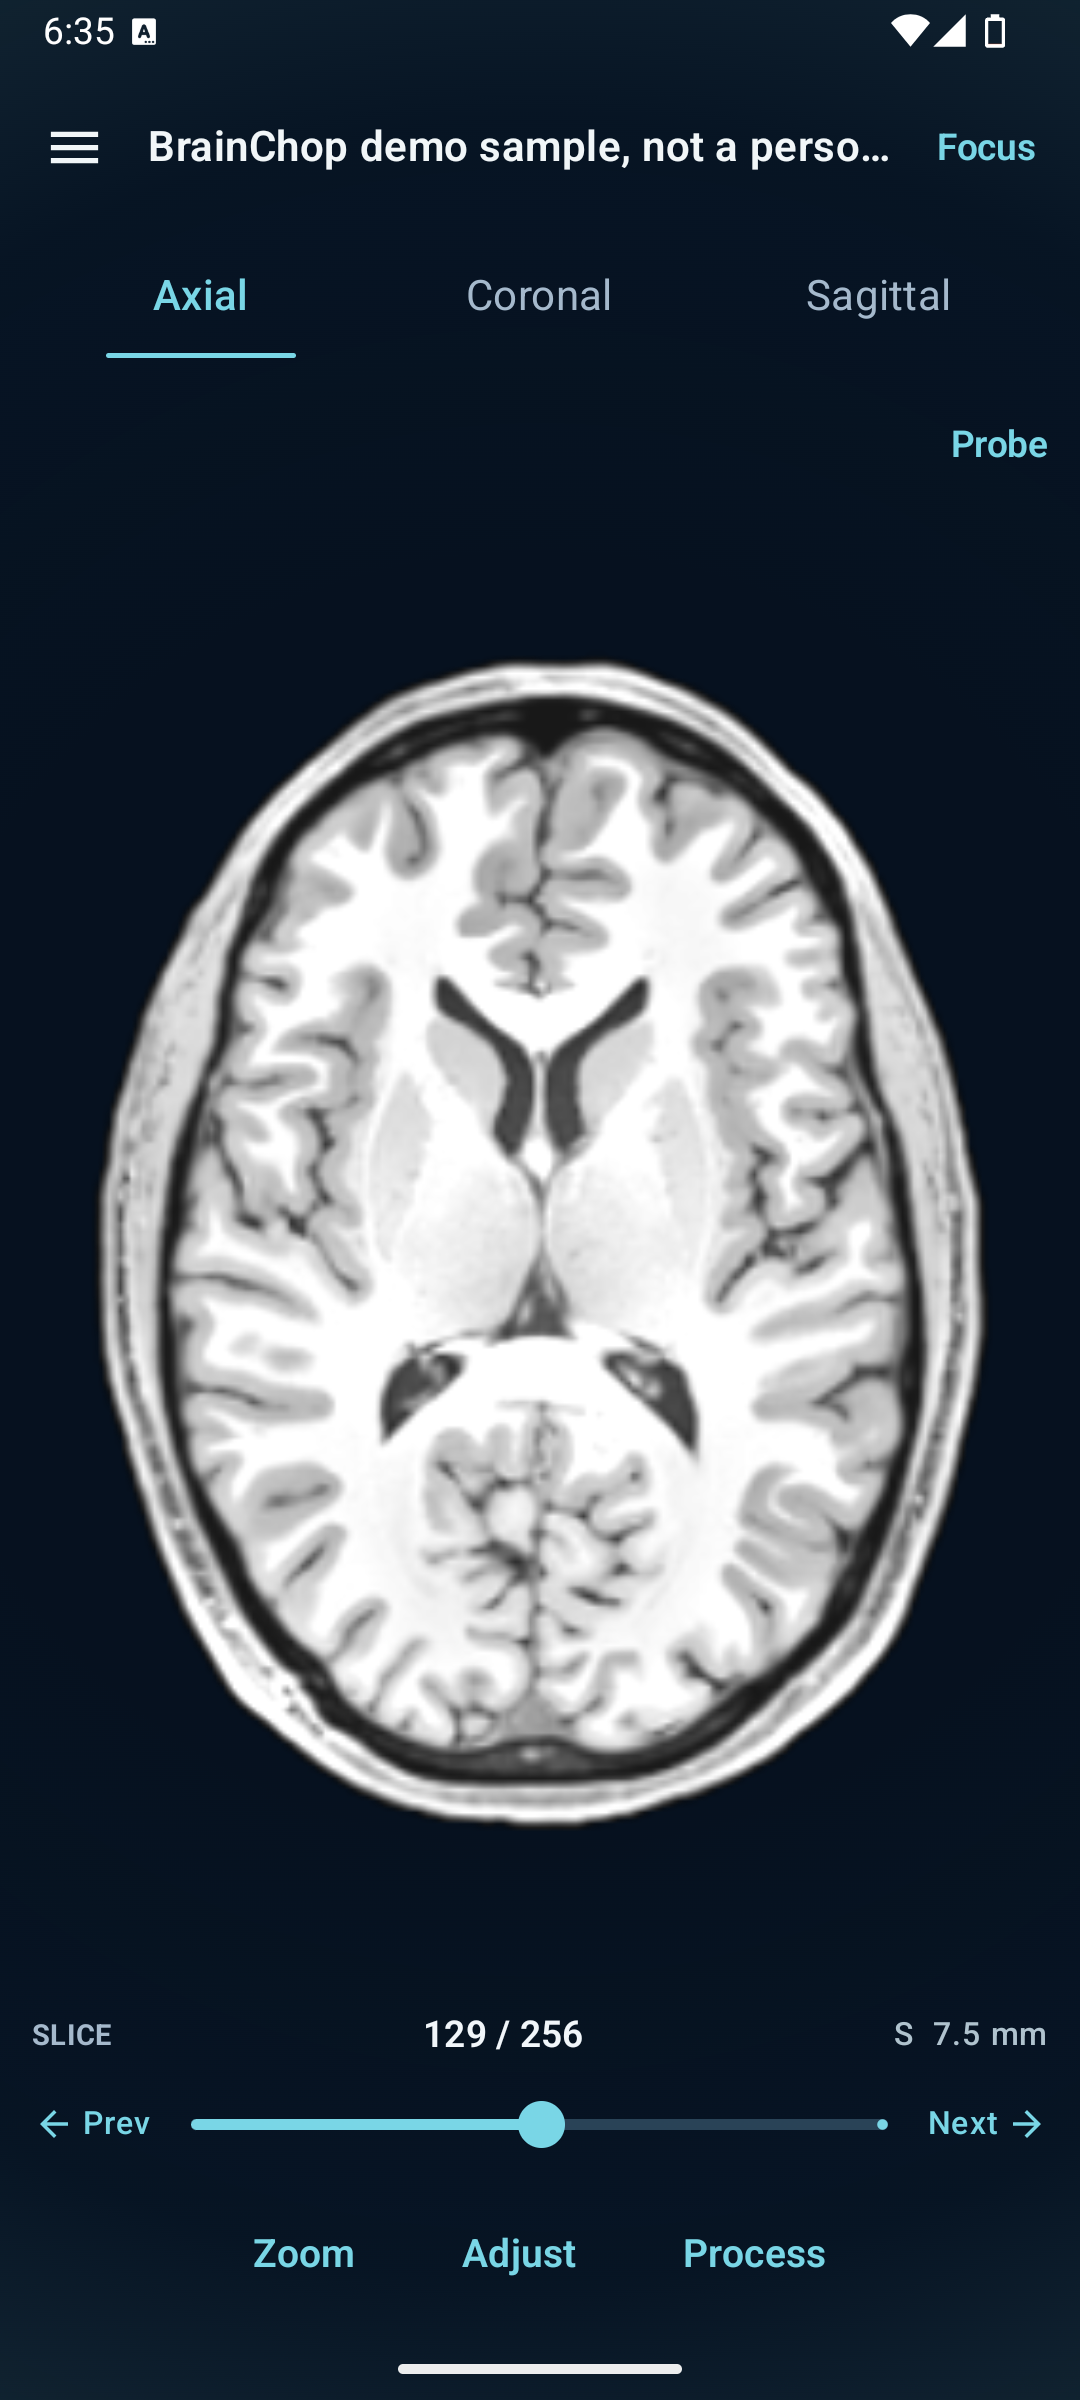
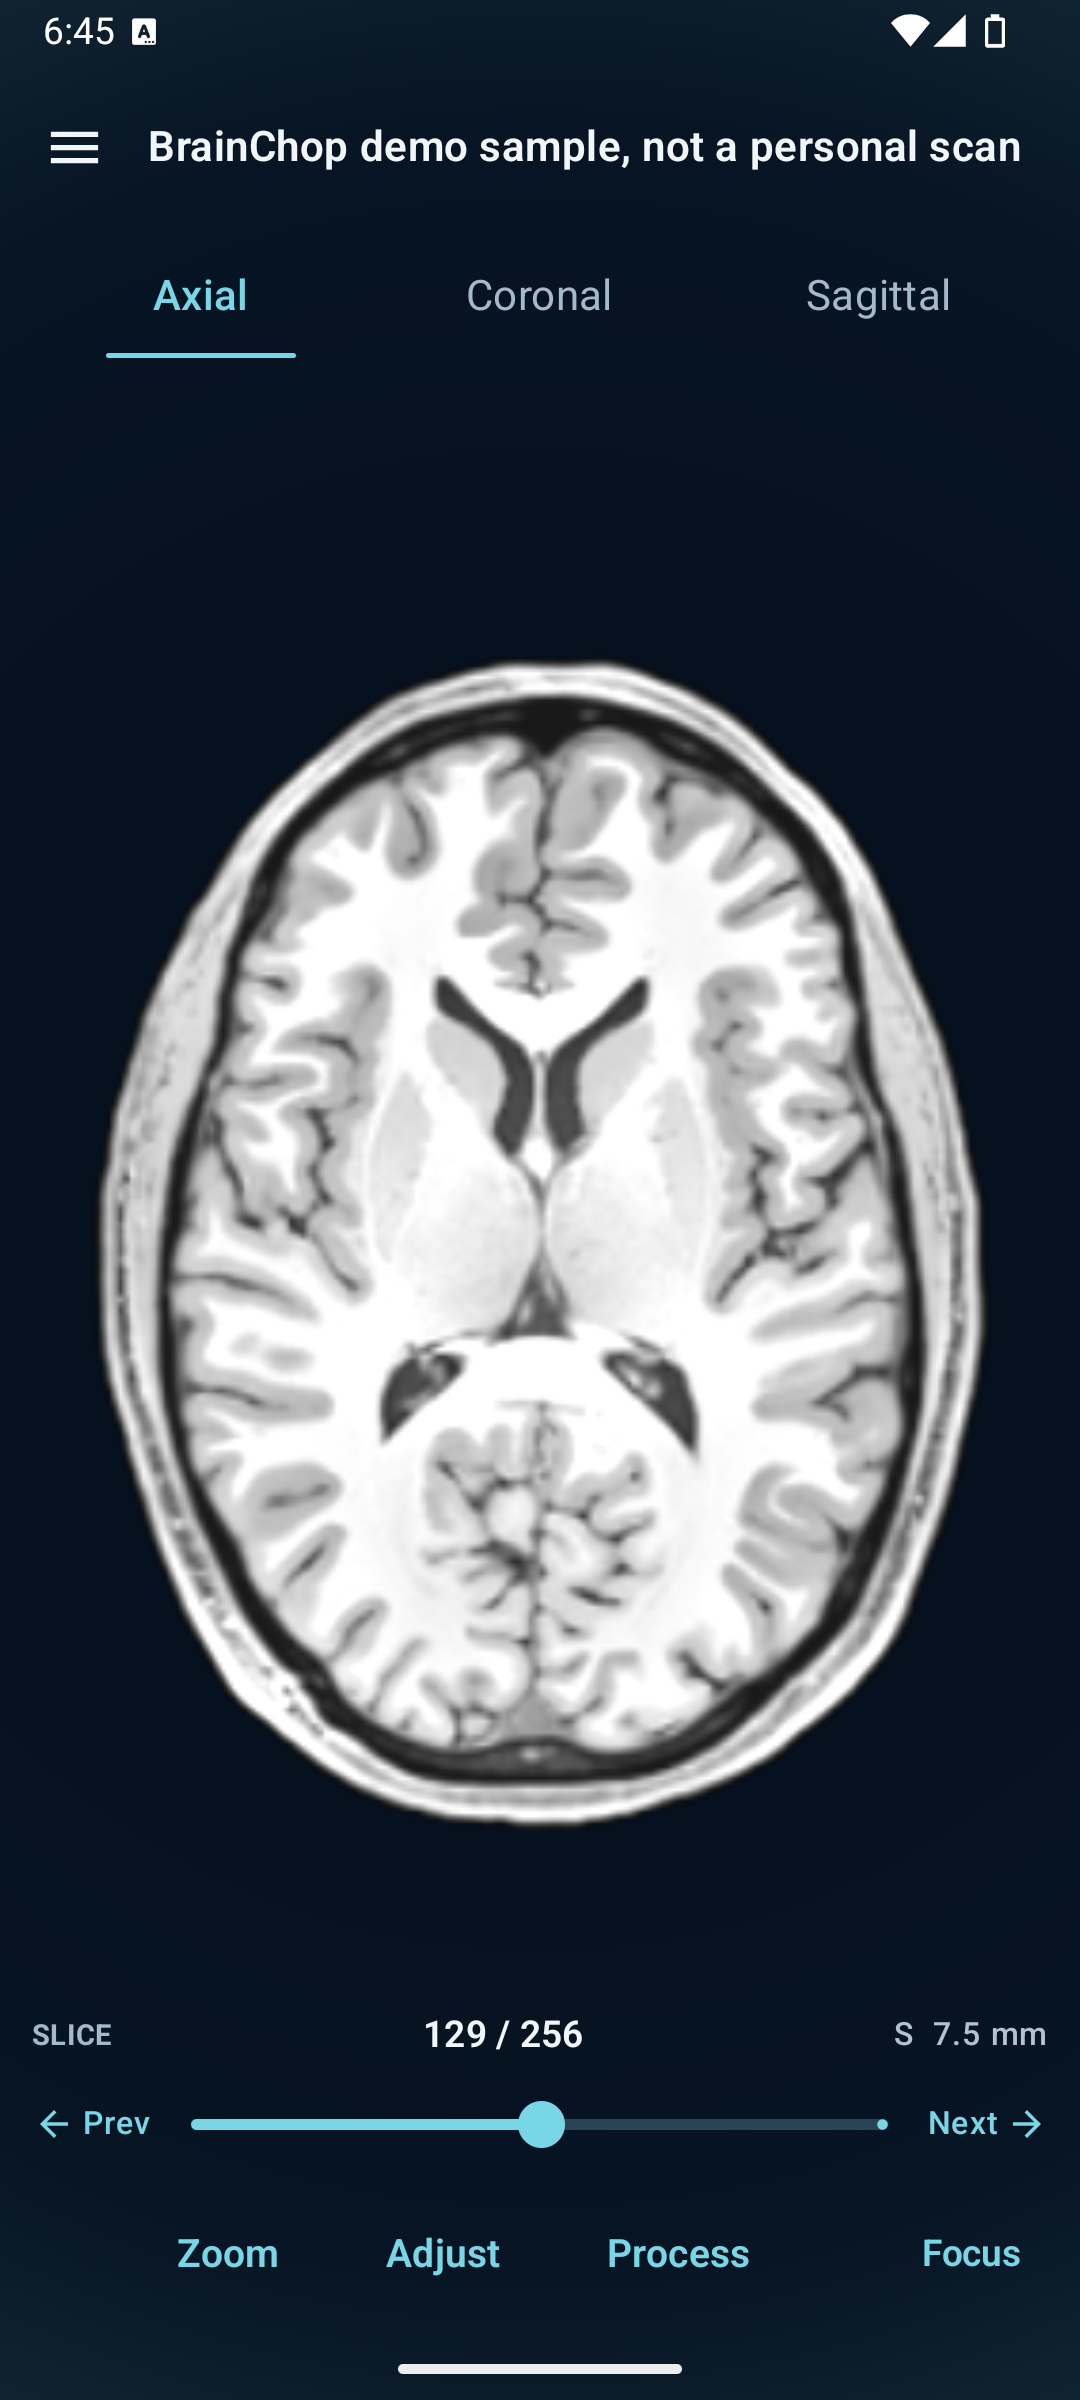
Move probe control into display adjustments

diff --git a/app/src/main/java/com/marcusfunt/neuroview/ui/screens/ViewerScreen.kt b/app/src/main/java/com/marcusfunt/neuroview/ui/screens/ViewerScreen.kt
@@ -58,6 +58,7 @@ import androidx.compose.material3.NavigationDrawerItem
 import androidx.compose.material3.Scaffold
 import androidx.compose.material3.Slider
 import androidx.compose.material3.Surface
+import androidx.compose.material3.Switch
 import androidx.compose.material3.Text
 import androidx.compose.material3.TextButton
 import androidx.compose.material3.TopAppBar
@@ -295,11 +296,6 @@ fun ViewerScreen(
                                 Icon(Icons.Default.Menu, contentDescription = "Open navigation menu")
                             }
                         },
-                        actions = {
-                            TextButton(onClick = { focusMode = !focusMode }) {
-                                Text(if (focusMode) "Controls" else "Focus", color = NeuroChrome.accent)
-                            }
-                        },
                         colors = TopAppBarDefaults.topAppBarColors(
                             containerColor = Color.Transparent,
                         ),
@@ -322,6 +318,7 @@ fun ViewerScreen(
                         is VolumeLoadState.Ready -> MriContent(
                             modifier = Modifier.fillMaxSize(),
                             focusMode = focusMode,
+                            onFocusToggle = { focusMode = !focusMode },
                             showOrientationMarkers = showOrientationMarkers,
                             volume = volumeState.volume,
                             plane = plane,
@@ -342,12 +339,6 @@ fun ViewerScreen(
                         )
                     }
 
-                    if (focusMode) {
-                        TextButton(
-                            onClick = { focusMode = false },
-                            modifier = Modifier.align(Alignment.TopEnd).padding(8.dp),
-                        ) { Text("Exit focus", color = NeuroChrome.accent) }
-                    }
                 }
             }
         }
@@ -468,6 +459,7 @@ private fun ViewerMessage(title: String, detail: String, onImport: () -> Unit) {
 private fun MriContent(
     modifier: Modifier,
     focusMode: Boolean,
+    onFocusToggle: () -> Unit,
     showOrientationMarkers: Boolean,
     volume: NiftiVolume,
     plane: MriPlane,
@@ -495,7 +487,7 @@ private fun MriContent(
     var bridgeToken by remember { mutableStateOf("") }
     var zoomMode by remember(volume) { mutableStateOf(false) }
     var probeMode by remember(volume) { mutableStateOf(false) }
-    var probeReading by remember(volume, plane) { mutableStateOf<String?>(null) }
+    var probeReading by remember(volume) { mutableStateOf<String?>(null) }
     var scale by remember(volume, plane) { mutableFloatStateOf(DEFAULT_MRI_IMAGE_SCALE) }
     var panOffset by remember(volume, plane) { mutableStateOf(Offset.Zero) }
     var imageViewport by remember { mutableStateOf(IntSize.Zero) }
@@ -570,8 +562,16 @@ private fun MriContent(
                                 )
                                 val imageWidth = image.width * fit
                                 val imageHeight = image.height * fit
-                                val fractionX = (tap.x - (imageViewport.width - imageWidth) / 2f) / imageWidth
-                                val fractionY = (tap.y - (imageViewport.height - imageHeight) / 2f) / imageHeight
+                                val centerX = imageViewport.width / 2f
+                                val centerY = imageViewport.height / 2f
+                                val imageX =
+                                    (tap.x - centerX - panOffset.x) / scale + centerX
+                                val imageY =
+                                    (tap.y - centerY - panOffset.y) / scale + centerY
+                                val fractionX = (imageX - (imageViewport.width - imageWidth) / 2f) /
+                                    imageWidth
+                                val fractionY = (imageY - (imageViewport.height - imageHeight) / 2f) /
+                                    imageHeight
                                 val sampled = MprProbe.sample(
                                     volume, plane, currentSlice,
                                     fractionX.toDouble(), fractionY.toDouble(),
@@ -582,6 +582,7 @@ private fun MriContent(
                                         it.roundToInt().toString()
                                     }} · intensity ${String.format(java.util.Locale.US, "%.2f", sampled.intensity)}"
                                 } else {
+                                    onReferenceWorldChange(null)
                                     probeReading = "No measured voxel at that position."
                                 }
                             }
@@ -754,28 +755,38 @@ private fun MriContent(
                     }
                 }
             }
-            if (!focusMode) {
+            if (focusMode) {
                 TextButton(
-                    onClick = {
-                        probeMode = !probeMode
-                        if (!probeMode) onReferenceWorldChange(null)
-                        zoomMode = false
-                        scale = DEFAULT_MRI_IMAGE_SCALE
-                        panOffset = Offset.Zero
-                    },
-                    modifier = Modifier.align(Alignment.TopEnd),
-                ) { Text(if (probeMode) "End probe" else "Probe",
-                    color = NeuroChrome.accent) }
+                    onClick = onFocusToggle,
+                    modifier = Modifier.align(Alignment.BottomEnd).padding(8.dp),
+                ) { Text("Exit focus", color = NeuroChrome.accent) }
             }
             if (probeMode) {
-                Text(
-                    probeReading ?: "Tap a voxel to inspect intensity and set a cross-plane reference.",
+                Surface(
                     modifier = Modifier.align(Alignment.BottomStart).padding(10.dp)
-                        .background(Color.Black.copy(alpha = 0.75f), RoundedCornerShape(8.dp))
-                        .padding(8.dp),
-                    style = MaterialTheme.typography.labelSmall,
-                    color = NeuroChrome.ink,
-                )
+                        .fillMaxWidth(0.68f),
+                    color = NeuroChrome.topBar.copy(alpha = 0.94f),
+                    contentColor = NeuroChrome.ink,
+                    shape = RoundedCornerShape(12.dp),
+                    border = BorderStroke(1.dp, NeuroChrome.accent.copy(alpha = 0.4f)),
+                    shadowElevation = 8.dp,
+                ) {
+                    Column(
+                        modifier = Modifier.padding(horizontal = 12.dp, vertical = 9.dp),
+                        verticalArrangement = Arrangement.spacedBy(3.dp),
+                    ) {
+                        Text(
+                            "Probe Crosshair",
+                            color = NeuroChrome.accent,
+                            style = MaterialTheme.typography.labelLarge,
+                            fontWeight = FontWeight.Medium,
+                        )
+                        Text(
+                            probeReading ?: "Tap a point on the image to inspect it.",
+                            style = MaterialTheme.typography.bodySmall,
+                        )
+                    }
+                }
             }
         }
 
@@ -894,31 +905,41 @@ private fun MriContent(
             modifier = Modifier.fillMaxWidth().padding(horizontal = 12.dp)
                 .offset(y = (-4).dp),
             verticalAlignment = Alignment.CenterVertically,
-            horizontalArrangement = Arrangement.spacedBy(20.dp, Alignment.CenterHorizontally),
         ) {
-            TextButton(onClick = {
-                zoomMode = !zoomMode
-                probeMode = false
-                onReferenceWorldChange(null)
-                scale = DEFAULT_MRI_IMAGE_SCALE
-                panOffset = Offset.Zero
-            }, contentPadding = PaddingValues(horizontal = 10.dp, vertical = 0.dp),
-                modifier = Modifier.heightIn(min = 48.dp)) {
-                Text(
-                    if (zoomMode) "Scroll" else "Zoom",
-                    style = MaterialTheme.typography.labelLarge.copy(fontSize = 15.sp),
-                )
+            Row(
+                modifier = Modifier.weight(1f),
+                horizontalArrangement = Arrangement.spacedBy(20.dp, Alignment.CenterHorizontally),
+                verticalAlignment = Alignment.CenterVertically,
+            ) {
+                TextButton(onClick = {
+                    zoomMode = !zoomMode
+                    probeMode = false
+                    onReferenceWorldChange(null)
+                    scale = DEFAULT_MRI_IMAGE_SCALE
+                    panOffset = Offset.Zero
+                }, contentPadding = PaddingValues(horizontal = 10.dp, vertical = 0.dp),
+                    modifier = Modifier.heightIn(min = 48.dp)) {
+                    Text(
+                        if (zoomMode) "Scroll" else "Zoom",
+                        style = MaterialTheme.typography.labelLarge.copy(fontSize = 15.sp),
+                    )
+                }
+                TextButton(onClick = { showAdjustments = true },
+                    contentPadding = PaddingValues(horizontal = 10.dp, vertical = 0.dp),
+                    modifier = Modifier.heightIn(min = 48.dp)) {
+                    Text("Adjust", style = MaterialTheme.typography.labelLarge.copy(fontSize = 15.sp))
+                }
+                TextButton(onClick = { showProcessing = true },
+                    contentPadding = PaddingValues(horizontal = 10.dp, vertical = 0.dp),
+                    modifier = Modifier.heightIn(min = 48.dp)) {
+                    Text("Process", style = MaterialTheme.typography.labelLarge.copy(fontSize = 15.sp))
+                }
             }
-            TextButton(onClick = { showAdjustments = true },
-                contentPadding = PaddingValues(horizontal = 10.dp, vertical = 0.dp),
-                modifier = Modifier.heightIn(min = 48.dp)) {
-                Text("Adjust", style = MaterialTheme.typography.labelLarge.copy(fontSize = 15.sp))
-            }
-            TextButton(onClick = { showProcessing = true },
-                contentPadding = PaddingValues(horizontal = 10.dp, vertical = 0.dp),
-                modifier = Modifier.heightIn(min = 48.dp)) {
-                Text("Process", style = MaterialTheme.typography.labelLarge.copy(fontSize = 15.sp))
-            }
+            TextButton(
+                onClick = onFocusToggle,
+                contentPadding = PaddingValues(horizontal = 6.dp, vertical = 0.dp),
+                modifier = Modifier.heightIn(min = 48.dp),
+            ) { Text("Focus", color = NeuroChrome.accent) }
         }
         if (orientationUnknown) {
             Text(
@@ -970,6 +991,44 @@ private fun MriContent(
                     style = MaterialTheme.typography.bodySmall,
                     color = MaterialTheme.colorScheme.onSurfaceVariant,
                 )
+                HorizontalDivider(color = NeuroChrome.stroke.copy(alpha = 0.65f))
+                Row(
+                    modifier = Modifier.fillMaxWidth(),
+                    horizontalArrangement = Arrangement.spacedBy(12.dp),
+                    verticalAlignment = Alignment.CenterVertically,
+                ) {
+                    Column(
+                        modifier = Modifier.weight(1f),
+                        verticalArrangement = Arrangement.spacedBy(4.dp),
+                    ) {
+                        Text("Probe Crosshair", style = MaterialTheme.typography.titleSmall)
+                        Text(
+                            "Tap a slice to show voxel coordinates, intensity, and a crosshair reference.",
+                            style = MaterialTheme.typography.bodySmall,
+                            color = MaterialTheme.colorScheme.onSurfaceVariant,
+                        )
+                    }
+                    Switch(
+                        modifier = Modifier.semantics {
+                            contentDescription = "Probe Crosshair"
+                        },
+                        checked = probeMode,
+                        onCheckedChange = { enabled ->
+                            probeMode = enabled
+                            if (enabled) {
+                                zoomMode = false
+                                scale = DEFAULT_MRI_IMAGE_SCALE
+                                panOffset = Offset.Zero
+                                probeReading = null
+                            } else {
+                                onReferenceWorldChange(null)
+                                probeReading = null
+                            }
+                            showAdjustments = false
+                        },
+                    )
+                }
+                HorizontalDivider(color = NeuroChrome.stroke.copy(alpha = 0.65f))
                 Text("Display presets", style = MaterialTheme.typography.titleSmall)
                 Row(horizontalArrangement = Arrangement.spacedBy(8.dp)) {
                     FilterChip(

diff --git a/docs/reviews/mri-viewer-slider/REVIEW.md b/docs/reviews/mri-viewer-slider/REVIEW.md
@@ -10,11 +10,21 @@ The viewer uses one unframed deep-navy canvas. A faint cyan/blue perimeter glow 
 
 Plane and slice controls remain easy to reach. Plane labels are slightly larger and sit a little higher; lower actions are slightly higher and spaced apart, while the slice slider stays in place. Slice buttons keep 48 dp touch targets. The initial image scale is now 135% of fit. Orientation markers start hidden; the Home Settings sheet has a saved “Orientation markers” switch for R/L and A/P labels.
 
-![Updated MRI viewer with a continuous deep-blue canvas, subtle perimeter glow, larger brain, grouped readable controls, and markers hidden](04-compact-viewer.png)
+![Updated MRI viewer with a continuous deep-blue canvas, subtle perimeter glow, larger brain, grouped controls, and Focus at the lower right](04-compact-viewer.png)
 
 The loading state now carries NeuroView branding, with the app logo, an accent progress ring, and a short status message over the same blue glow treatment.
 
 ![Branded MRI loading screen](07-branded-loading.png)
+
+## Focus and probe controls
+
+Focus now sits at the lower-right end of the normal control row. In Focus mode, an “Exit focus” control stays at the lower-right of the image area. Probe Crosshair lives in Display adjustments; enabling it closes the sheet and arms point picking. The image first shows a short prompt, then a tap places the crosshair and opens a reading card with voxel indices and intensity. The cross-plane reference follows the selected point across intersecting views. Switching the setting off clears the reading and crosshair.
+
+![Probe Crosshair switch in Display adjustments](08-probe-crosshair-setting.png)
+
+![Probe Crosshair armed with the tap instruction](09-probe-crosshair-armed.png)
+
+![Probe Crosshair reading card with voxel coordinates and intensity](10-probe-crosshair-reading.png)
 
 ![Home Settings with Orientation markers off by default](05-orientation-markers-setting-off.png)
 
